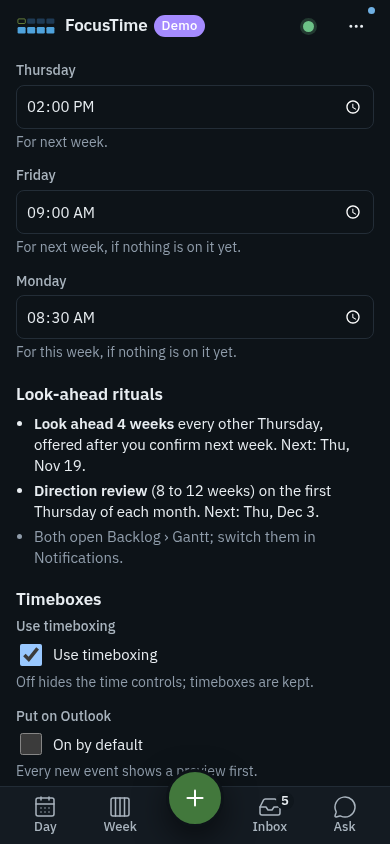
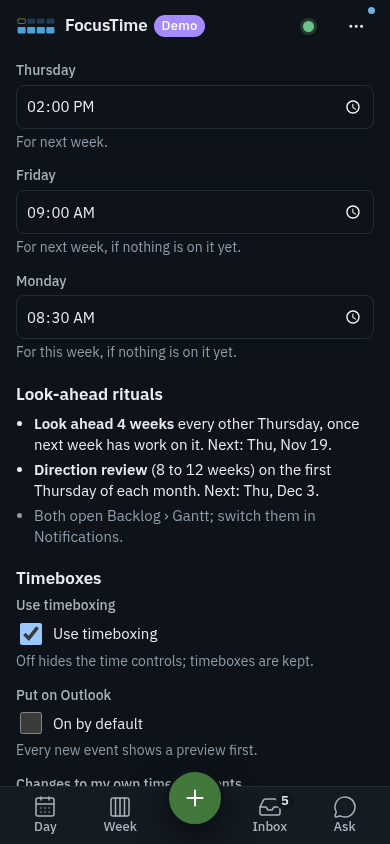
NM-1: review 1 (the demo): six more labels, and the scan reads text after a self-closing tag
Fixed from the review: Show personal events on Week and Day; Look ahead 4 weeks, once next week has work on it;
Add another client in Close out; Logged in Settings › Activity › Teams status log; a person's phrases are in
Settings › Client chats; Week's accessible name says Enter opens the block's panel. The guard's reader took the
slash of a tag's close for the start of a pattern after a brace and skipped the text behind it; it no longer does.
What the review found and this step leaves is in the open questions. The words list, decisions and after
screenshots follow.

Claude-Session: https://claude.ai/code/session_01MZF2GrQ5GJcPQzpEKV4Ldh

Changed region(s): [[0.0308, 0.4929, 0.9231, 0.955], [0.4923, 0.7701, 0.8, 0.8318], [0.0308, 0.5545, 0.0615, 0.5853]]

diff --git a/scripts/words-guard.ts b/scripts/words-guard.ts
@@ -111,7 +111,8 @@ export function codePieces(src: string, tsx: boolean, /** NM-1: also JSX text th
       i += 2;
       continue;
     }
-    if (c === "/" && (prev === "" || /[(,=:[!&|?{};]/.test(prev) || /\b(return|typeof|case)\s*$/.test(cur))) {
+    // NM-1: "/>" closes a tag, it never opens a pattern (the text after `} />` was being skipped to the line's end).
+    if (c === "/" && src[i + 1] !== ">" && (prev === "" || /[(,=:[!&|?{};]/.test(prev) || /\b(return|typeof|case)\s*$/.test(cur))) {
       // a regex literal: skip to its closing slash on this line
       let inClass = false;
       i++;
@@ -149,7 +150,7 @@ export function codePieces(src: string, tsx: boolean, /** NM-1: also JSX text th
       // An entity is read as its character ("Settings &gt; Data"), written wide so it is never taken for a tag.
       if (loose) for (const m of l.replace(/&gt;/g, "＞").replace(/&lt;/g, "＜").replace(/&amp;/g, "＆").replace(/&[a-z]+;|&#\d+;/g, " ").matchAll(/[\w"'}\/]>([^<>{}]*)(?=[<{]|$)/g)) if (/[A-Za-z]{2}/.test(m[1]!) && m[1]!.trim().split(/\s+/).length >= 2 && !/[=;]|=>|\b(const|return|typeof)\b/.test(m[1]!)) push(m[1]!, k + 1, false);
       // NM-1: a line of JSX text with brackets or a colon in it: "On iPhone, add FocusTime to your home screen first (More".
-      if (loose && /^\s*[A-Z][^<>{}=;]*$/.test(l) && l.trim().split(/\s+/).length >= 4 && !/=>|^\s*(return|const|let|if|else|await|export|import|type|case|throw|new|typeof)\b/.test(l)) push(l, k + 1, false);
+      if (loose && /^\s*(?:[A-Z]|\+ [A-Z])[^<>{}=;]*$/.test(l) && l.trim().split(/\s+/).length >= 3 && !/=>|^\s*(return|const|let|if|else|await|export|import|type|case|throw|new|typeof)\b/.test(l)) push(l, k + 1, false);
       // NM-1: text after an {expression} to the end of the line: {name}'s DevOps. Undo is in Settings
       for (const m of l.matchAll(/\}([^<>{}=;()|&:]*)$/g)) if (m[1]!.trim().split(/\s+/).length >= 3 && !/^\s*(as|from|else|satisfies|catch|finally|while)\b/.test(m[1]!)) push(m[1]!, k + 1, false);
       if (/^\s*[A-Za-z][^<>{}=;()|&:]*$/.test(l) && l.trim().split(/\s+/).length >= 3 && !/^\s*(return|const|let|if|else|await|export|import|type|case|throw|new|typeof)\b/.test(l)) push(l, k + 1, false);

diff --git a/ui/Settings.tsx b/ui/Settings.tsx
@@ -479,7 +479,7 @@ function SectionBody(p: BodyProps) {
           <fieldset className="set-choice" data-setting="personal-events">
             <legend>Personal events</legend>
             <label>
-              <input type="checkbox" checked={p.showPersonal} onChange={(e) => p.setShowPersonal(e.target.checked)} /> Show personal events on Week and Today
+              <input type="checkbox" checked={p.showPersonal} onChange={(e) => p.setShowPersonal(e.target.checked)} /> Show personal events on Week and Day
             </label>
             <span className="set-hint">Hidden ones still count in risk and free time. G switches it.</span>
           </fieldset>
@@ -850,7 +850,7 @@ function AheadRituals() {
   return (
     <ul className="set-rituals">
       <li>
-        <strong>Look ahead 4 weeks</strong> every other Thursday, offered after you confirm next week. Next: {day(n.lookAhead)}.
+        <strong>Look ahead 4 weeks</strong> every other Thursday, once next week has work on it. Next: {day(n.lookAhead)}.
       </li>
       <li>
         <strong>Direction review</strong> (8 to 12 weeks) on the first Thursday of each month. Next: {day(n.direction)}.
@@ -994,7 +994,7 @@ function FocusForm(p: FormProps) {
     <>
     <Group title="Teams status" intro="Set while focus runs, back to automatic after. A change you make in Teams wins.">
       <div className="set-grid">
-        <AutoField a={a} k="teamsStatus" label="Set Teams status during focus" hint="Logged in Data › Teams status log.">
+        <AutoField a={a} k="teamsStatus" label="Set Teams status during focus" hint="Logged in Settings › Activity › Teams status log.">
           <label className="set-check">
             <input type="checkbox" checked={v.teamsStatus} onChange={(e) => a.change("teamsStatus", e.target.checked)} /> Set my status while I focus
           </label>

diff --git a/ui/WeekGrid.tsx b/ui/WeekGrid.tsx
@@ -216,7 +216,7 @@ function Grid({ week, colors, minFocusWindow, today, now, selection, cellRefs, o
       <main
         className={`grid narrow${timeline ? "" : " no-timeline"}`}
         role="group"
-        aria-label="Day view. Left and right arrows change the day, up and down pick the half-day, Enter opens details."
+        aria-label="Day view. Left and right arrows change the day, up and down pick the half-day, Enter opens the block's panel."
         // P1: on a touch screen a sideways swipe changes the day.
         onTouchStart={(e) => (swipe.x = e.touches[0]!.clientX, swipe.y = e.touches[0]!.clientY)}
         onTouchEnd={(e) => {
@@ -272,7 +272,7 @@ function Grid({ week, colors, minFocusWindow, today, now, selection, cellRefs, o
         className={`grid ${layout} ${hasEve ? "has-eve" : ""}${panelOpen ? " with-panel" : ""}${layout === "medium" ? ` tier-${fit?.tier ?? "rail"}` : ""}${fit && fit.open.some((o) => !o) ? " folded" : ""}${timeline ? "" : " no-timeline"}`}
         style={{ gridTemplateColumns: tracks, ...(fit ? { "--rail-w": `${fit.railPx}px` } : {}) } as CSSProperties}
         role="group"
-        aria-label="Week grid. Arrow keys move between half-days, Enter opens details."
+        aria-label="Week grid. Arrow keys move between half-days, Enter opens the block's panel."
         data-focus-day={focusAll >= 0 ? week.days[focusAll]!.date : undefined}
       >
         {idx.map((i, k) =>

diff --git a/scripts/words-guard.test.ts b/scripts/words-guard.test.ts
@@ -84,6 +84,10 @@ describe("namesHits", () => {
     // An array over several lines.
     expect(namesHits("ui/menu.ts", '{ label: "Day",\n  aka: [\n    "Today",\n    "Board",\n  ] },\n')).toEqual([]);
   });
+  it("reads the text after a tag that closes itself, and a line that starts with a plus", () => {
+    const src = '<label>\n  <input type="checkbox" checked={on} onChange={(e) => set(e.target.checked)} /> Show personal events on Week and Today\n</label>\n<button type="button" onClick={add}>\n  + Another client\n</button>\n';
+    expect(namesHits("ui/x.tsx", src)).toEqual([{ line: 2, says: ["Today (the tab)"] }, { line: 5, says: ["a control as a character"] }]);
+  });
   it("reads an entity as its character", () => {
     expect(namesHits("ui/x.tsx", '<span className="muted">Logged in Settings &gt; Data, with Undo.</span>\n<p>Undo &amp; Retry are in Settings › Data.</p>\n<p>Undo &amp; Retry are in Settings › Activity.</p>\n').map((h) => h.line)).toEqual([1, 2]);
   });

diff --git a/ui/settings/Admin.tsx b/ui/settings/Admin.tsx
@@ -729,7 +729,7 @@ function AdminConversations() {
   );
   return (
     <div className="set-form">
-      <p className="muted">The team's phrase lists. Each person may add their own phrases on top in Settings › Clients, but never removes the team's.</p>
+      <p className="muted">The team's phrase lists. Each person may add their own phrases on top in Settings › Client chats, but never removes the team's.</p>
       <div className="set-grid">
         {list("conv.request_phrases", "Request phrases", data.requestPhrases, "A client's message with one of these becomes a request. Commas between them.")}
         {list("conv.ack_phrases", "Thanks and short replies", data.ackPhrases, "A message that is only these (and emoji) is never a request.")}

diff --git a/ui/CloseOut.tsx b/ui/CloseOut.tsx
@@ -190,7 +190,7 @@ export function CloseOutPanel({ date, st, data, nameOf, reload, onChanged, onErr
                   openMenu({ x: r.left, y: r.bottom + 4 }, { title: "Another client", items: others.map((c) => ({ id: c.clientKey, label: nameOf(c.clientKey), run: () => setExtra((x) => [...x, c.clientKey]) })) });
                 }}
               >
-                + Another client
+                Add another client
               </button>
             )}
         </section>

diff --git a/docs/ux/nm1/words.md b/docs/ux/nm1/words.md
@@ -2,9 +2,9 @@
 
 STEP 0.3's list: every string a person can read that used a name on the retired list (`ui/guide/retired.ts`) or wrote a control as a character, with what it became. Comments in code are not on it.
 
-How it was built. The new guard (`scripts/words-guard.ts`, `namesHits`) was written first and run on `main`: it reads every string, template part and run of JSX text in the app's code (`ui/`, `server/`, `assistant/`, `actions/`, `plan/`, `config/`, `week/`, `ai/`, `host/`, `store/`, the Teams scripts) and the public pages, and reported 121 lines. A second pass by hand added what a pattern can't see: old names in lower case ("captures and drafts", "the whole roadmap", "urgent asks"), paths written with ">" ("Settings > Data"), and pointers to a Settings section that has since moved (a write PAT is entered in Settings › DevOps, not Settings › Clients). Widening the scan to JSX text with brackets found two more lines later (the key list's footer and the iPhone note in Settings).
+How it was built. The new guard (`scripts/words-guard.ts`, `namesHits`) was written first and run on `main`: it reads every string, template part and run of JSX text in the app's code (`ui/`, `server/`, `assistant/`, `actions/`, `plan/`, `config/`, `week/`, `ai/`, `host/`, `store/`, the Teams scripts) and the public pages, and reported 121 lines. A second pass by hand added what a pattern can't see: old names in lower case ("captures and drafts", "the whole roadmap", "urgent asks"), paths written with ">" ("Settings > Data"), and pointers to a Settings section that has since moved (a write PAT is entered in Settings › DevOps, not Settings › Clients). Widening the scan found more later: JSX text with brackets (the key list's footer, the iPhone note in Settings), and after the two reviews the sources' own messages, text written with an entity ("Settings &gt; Data") and text after a tag that closes itself ("Show personal events on Week and Today"). The reviews also found lines no pattern would: "offered after you confirm next week", "Logged in Data › Teams status log", "Enter opens details".
 
-148 rows. "Words now" is `main` before this step; "Words proposed" is what the branch says. A row from `actions/registry.ts` shows the command's title or group (what the command menu shows) and its summary (not shown, kept in step).
+164 rows. "Words now" is `main` before this step; "Words proposed" is what the branch says. A row from `actions/registry.ts` shows the command's title or group (what the command menu shows) and its summary (not shown, kept in step).
 
 | File and line (on main) | Words now | Words proposed |
 |---|---|---|
@@ -17,6 +17,7 @@ How it was built. The new guard (`scripts/words-guard.ts`, `namesHits`) was writ
 | `actions/devops-write-actions.ts:157` | may already be in DevOps. Retry it in Settings > Data > Audit log: it checks first and won't make a second one | may already be in DevOps. Retry it in Settings › Activity: it checks first and won't make a second one |
 | `actions/devops-write-actions.ts:216` | DevOps writes aren't enabled for ${client}. Enter your own DevOps PAT in Settings > Clients > DevOps write access | DevOps writes aren't enabled for ${client}. Enter your own DevOps PAT in Settings › DevOps › Write access |
 | `actions/devops-write-actions.ts:265` | ${clientName(clientKey)}'s DevOps organization changed. Enter the write PAT again in Settings > Clients | ${clientName(clientKey)}'s DevOps organization changed. Enter the write PAT again in Settings › DevOps |
+| `actions/devops-write-actions.ts:266` | Your DevOps identity for ${clientName(clientKey)} in Dataverse no longer matches the write PAT (${me.email}). Enter it again in Settings > Clients | Your DevOps identity for ${clientName(clientKey)} in Dataverse no longer matches the write PAT (${me.email}). Enter it again in Settings › DevOps |
 | `actions/devops-write-actions.ts:625` | Feedback isn't sent again from here. Send it again from ⋯ › Send feedback | Feedback isn't sent again from here. Send it again from More › Send feedback |
 | `actions/devops-write-actions.ts:654` | The request opens again in Inbox › Requests, for everyone on the chat. | The request opens again in Inbox › From chats, for everyone on the chat. |
 | `actions/devops-write-actions.ts:1121` | may already be in DevOps. Retry it in Settings > Data > Audit log | may already be in DevOps. Retry it in Settings › Activity |
@@ -30,6 +31,7 @@ How it was built. The new guard (`scripts/words-guard.ts`, `namesHits`) was writ
 | `actions/meeting-actions.ts:453` | Enable DevOps writes for this client in Settings › Clients first | Enable DevOps writes for this client in Settings › DevOps first |
 | `actions/meeting-actions.ts:472` | Saved as your draft: put it under a feature or epic in Inbox › Captures and drafts, then create it | Saved as your draft: put it under a feature or epic in Inbox › Captures, then create it |
 | `actions/meeting-actions.ts:487` | In your Waiting on | Noted with this call |
+| `actions/meeting-actions.ts:540` | Waiting on ${b.who} | Noted with this call: ${b.who} |
 | `actions/registry.ts:40` | Requests | From chats |
 | `actions/registry.ts:87` | , title: "Plan ahead | , aka: ["Plan ahead"], title: "Backlog › Gantt: the next 12 weeks |
 | `actions/registry.ts:194` | Whether a person's first Today offers the 2-minute tour; { done: true } once they open it or say Not now; kept per person in the plan store | Whether a person's first Day offers the 2-minute tour; { done: true } once they open it or say Not now; kept per person in the plan store |
@@ -82,6 +84,12 @@ How it was built. The new guard (`scripts/words-guard.ts`, `namesHits`) was writ
 | `public/legal.html:34` | Settings › Data › Export my data gives you everything kept for you as a file. Delete my data signs you out and removes it: the Teams bot's records at once, everything else 30 days later. Settings › Data › Assistant history › Clear… | Settings › Your data › Export my data gives you everything kept for you as a file. Delete my data signs you out and removes it: the Teams bot's records at once, everything else 30 days later. Settings › AI and assistant › Assistan… |
 | `scripts/teams-card-previews.ts:83` | Open in Ahead | Open in Backlog |
 | `server/teams/rhythm-cards.ts:123` | } in Today | } on Day |
+| `sources/devops/source.ts:1193` | Ahead reads the shared DevOps store, which isn't running here | Backlog reads the shared DevOps store, which isn't running here |
+| `sources/devops/write.ts:45` | The DevOps write PAT is expired or invalid. Enter a new one in Settings > Clients | The DevOps write PAT is expired or invalid. Enter a new one in Settings › DevOps |
+| `sources/devops/write.ts:54` | The DevOps write PAT is expired or invalid. Enter a new one in Settings > Clients | The DevOps write PAT is expired or invalid. Enter a new one in Settings › DevOps |
+| `sources/not-set-up.ts:8` | ${NAMES[source]} isn't set up yet. Set it up in Settings > Connections | ${NAMES[source]} isn't set up yet. Set it up in Settings › Accounts and calendars |
+| `sources/oauth/oauth.ts:269` | FocusTime can't change your ${p.label} calendar yet. Reconnect ${p.label} in Settings > Connections and allow calendar changes | FocusTime can't change your ${p.label} calendar yet. Reconnect ${p.label} in Settings › Accounts and calendars and allow calendar changes |
+| `sources/oauth/oauth.ts:276` | FocusTime can't change your ${p.label} calendar yet. Reconnect ${p.label} in Settings > Connections and allow calendar changes | FocusTime can't change your ${p.label} calendar yet. Reconnect ${p.label} in Settings › Accounts and calendars and allow calendar changes |
 | `ui/App.tsx:153` | The week's blocks, with Add work beside them | Week: the week's blocks, with a block's panel beside them |
 | `ui/App.tsx:154` | Features, epics and stories ahead: Grid, Gantt, Readiness and Backlog | Backlog: every client's DevOps on one screen: Grid, Gantt and Needs attention |
 | `ui/App.tsx:155` | What needs you: promises, conversations, sends, captures and drafts | Inbox: From chats, Promises and Captures |
@@ -90,6 +98,7 @@ How it was built. The new guard (`scripts/words-guard.ts`, `namesHits`) was writ
 | `ui/App.tsx:2316` | Shows them until you leave Week; the setting is in Week's ⋯ | Shows them until you leave Week; the setting is under Week's View options |
 | `ui/BlockPanel.tsx:261` | Timeboxing is off in Settings › Planning | Timeboxing is off in Settings › Day and Week |
 | `ui/Checkin.tsx:114` | Requests still open after their urgency (now: 2 hours; this week: Friday) | Urgent requests still open after their urgency (now: 2 hours; this week: Friday) |
+| `ui/CloseOut.tsx:193` | + Another client | Add another client |
 | `ui/CloseOut.tsx:259` | Back to Today (Esc)" : "Close out this day, then back to Today | Back to Day (Esc)" : "Close out this day, then back to Day |
 | `ui/DevOpsWrite.tsx:432` | DevOps is read-only for this client until you add your own write PAT in Settings > Clients | DevOps is read-only for this client until you add your own write PAT in Settings › DevOps |
 | `ui/DoneOffer.tsx:336` | }Undo is in Settings › Data. | }Undo is in Settings › Activity. |
@@ -100,6 +109,7 @@ How it was built. The new guard (`scripts/words-guard.ts`, `namesHits`) was writ
 | `ui/NewItem.tsx:194` | Kept on the block as a draft. Create it in DevOps from its ⋯, or drop it | Kept on the block as a draft. Create it in DevOps from its More menu, or drop it |
 | `ui/PhoneShell.tsx:181` | Grid, Gantt, Gaps and Backlog need room for the whole roadmap. Open FocusTime on a computer to plan ahead. | Grid, Gantt and Needs attention need room for the whole backlog. Open FocusTime on a computer to plan ahead. |
 | `ui/PhoneShell.tsx:187` | Back to Today | Back to Day |
+| `ui/Settings.tsx:482` | Show personal events on Week and Today | Show personal events on Week and Day |
 | `ui/Settings.tsx:494` | With Show weekend on, weekend days show when something is on them (or always, with Every weekend day in Week's ⋯). A hidden day with to-dos or promises due, or today, gets a note on Week with Show. Day still steps through every da… | With Show weekend on, weekend days show when something is on them (or always, with Every weekend day under Week's View options). A hidden day with to-dos or promises due, or today, gets a note on Week with Show. Day still steps th… |
 | `ui/Settings.tsx:600` | None. Set a day's own hours from its ⋯ menu in the week. | None. Set a day's own hours from its Actions menu on Week. |
 | `ui/Settings.tsx:729` | Today's and your next working day's empty blocks offer to-dos: unfinished ones first, then your backlog. Nothing is planned until you keep it. Also in Week's and Day's ⋯ as Suggestions. | Today's and your next working day's empty blocks offer to-dos: unfinished ones first, then your backlog. Nothing is planned until you keep it. Also under Week's and Day's View options as Suggestions. |
@@ -107,13 +117,17 @@ How it was built. The new guard (`scripts/words-guard.ts`, `namesHits`) was writ
 | `ui/Settings.tsx:813` | Readiness nudges | Needs attention nudges |
 | `ui/Settings.tsx:835` | Readiness nudges" hint={<>The ⚑ flags in Plan ahead. Team default: {onOff(team.readinessNudges)}. {reset( | Needs attention nudges" hint={<>The ⚑ flags in Backlog's Gantt. Team default: {onOff(team.readinessNudges)}. {reset( |
 | `ui/Settings.tsx:837` | Show readiness nudges | Show Needs attention nudges |
+| `ui/Settings.tsx:853` | every other Thursday, offered after you confirm next week. Next: {day(n.lookAhead)}. | every other Thursday, once next week has work on it. Next: {day(n.lookAhead)}. |
 | `ui/Settings.tsx:858` | Both open Plan ahead; switch them in Notifications. | Both open Backlog › Gantt; switch them in Notifications. |
+| `ui/Settings.tsx:997` | Logged in Data › Teams status log. | Logged in Settings › Activity › Teams status log. |
 | `ui/Settings.tsx:1213` | Let urgent asks through | Let urgent requests through |
 | `ui/Settings.tsx:1379` | On iPhone, add FocusTime to your home screen first (⋯ › Install app), then open it from there to turn this on. | On iPhone, add FocusTime to your home screen first (More › Install app), then open it from there to turn this on. |
 | `ui/Status.tsx:1092` | Each line is its own write, logged in Settings &gt; Data with Undo. | Each line is its own write, logged in Settings › Activity with Undo. |
 | `ui/StyleGuide.tsx:274` | Today and Week: four sizes and three weights. Uppercase only for section labels. | Day and Week: four sizes and three weights. Uppercase only for section labels. |
 | `ui/TimeboxCheckin.tsx:287` | Undo is also in Settings › Data. | Undo is also in Settings › Activity. |
 | `ui/Timeboxes.tsx:289` | Logged in Settings > Data. No undo: a first response can't be taken back." : "Logged in Settings > Data, with Undo. | Logged in Settings › Activity. No undo: a first response can't be taken back." : "Logged in Settings › Activity, with Undo. |
+| `ui/Timeboxes.tsx:375` | } The others are done. Try again, or use Retry in Settings &gt; Data. | } The others are done. Try again, or use Retry in Settings › Activity. |
+| `ui/Timeboxes.tsx:383` | Each one is logged in Settings &gt; Data, with its own Undo. | Each one is logged in Settings › Activity, with its own Undo. |
 | `ui/WrapUp.tsx:439` | )}, in {offer.clientName}'s DevOps ({preview.previews[0]!.visibility}). Each only if the item hasn't changed since. Undo is in Settings › Data. | )}, in {offer.clientName}'s DevOps ({preview.previews[0]!.visibility}). Each only if the item hasn't changed since. Undo is in Settings › Activity. |
 | `ui/keys.ts:103` | Move between blocks on Week and on Day (↓ from the afternoon reaches the evening); with the block panel open it follows | Move between blocks on Week and on Day (↓ from the afternoon reaches the evening); with the block's panel open it follows |
 | `ui/keys.ts:105` | Close the block panel and go back to its block | Close the block's panel and go back to its block |
@@ -137,12 +151,14 @@ How it was built. The new guard (`scripts/words-guard.ts`, `namesHits`) was writ
 | `ui/meetings/Meetings.tsx:224` | in your Waiting on | noted with this call |
 | `ui/meetings/Meetings.tsx:226` | Added to your Waiting on | Noted with this call |
 | `ui/meetings/Meetings.tsx:294` | Promises and Waiting on | Promises |
+| `ui/menu-icons.ts:52` | , Requests: | , "From chats": |
 | `ui/menu.ts:774` | Cancel it from Settings > Data (Undo) | Cancel it from Settings › Activity (Undo) |
 | `ui/menu.ts:1165` | Breaks are set to 0 minutes in Settings > Planning | Breaks are set to 0 minutes in Settings › Focus |
 | `ui/menu.ts:1422` | Shown next to Cooptimizers in Ask to collaborate, Who and Roadmap | Shown next to Cooptimizers in Ask to collaborate, Who and Backlog |
 | `ui/settings/Admin.tsx:447` | ${c.key}: what Gaps counts | ${c.key}: what Needs attention counts |
 | `ui/settings/Admin.tsx:450` | What Gaps counts | What Needs attention counts |
 | `ui/settings/Admin.tsx:451` | ${c.key}: what Gaps counts | ${c.key}: what Needs attention counts |
+| `ui/settings/Admin.tsx:732` | The team's phrase lists. Each person may add their own phrases on top in Settings › Clients, but never removes the team's. | The team's phrase lists. Each person may add their own phrases on top in Settings › Client chats, but never removes the team's. |
 | `ui/settings/Admin.tsx:1264` | Readiness top N | Needs attention top N |
 | `ui/settings/Admin.tsx:1265` | Readiness top N | Needs attention top N |
 | `ui/settings/Admin.tsx:1305` | Each level's defaults; a person may change any of these for themselves (Settings › Planning, Reset to team default). They never block anything. | Each level's defaults; a person may change any of these for themselves (Settings › Day and Week, Reset to team default). They never block anything. |
@@ -170,7 +186,7 @@ Also changed with these: the Guide's sentences that quoted "Settings › Today a
 | Where | Words | Why |
 |---|---|---|
 | `ui/Day.tsx` | "Needs you", the phone's heading over Day's urgent lines | Plain words for what the lines are, not the Inbox's old view. On the allow list with that reason. |
-| `plan/conversations.ts`, `actions/meeting-actions.ts` | "Waiting on <Name> · 1 day", "Waiting on <Name>" | A sentence about a person, not the old view. |
+| `plan/conversations.ts` | "Waiting on <Name> · 1 day" | A sentence about a person, not the old view. |
 | "Loop closed", "Loop updates sent" | Results of Close the loop | Close the loop is the action's name today. |
 | "Today" alone, "Today's …", "Today is …", "Today 4:07 PM" | The pill, the button, the quick date, stamps | The day that is today. |
 | `ui/patterns/`, `plan/patterns/`, `actions/patterns.ts` | "Request types", "Readiness as written" | DevOps patterns' own words (a page only some people have). Not the retired work-template field or the old Backlog view. |

diff --git a/docs/decisions.md b/docs/decisions.md
@@ -2641,7 +2641,7 @@ Unnumbered until merge.
 | # | Status | Decision |
 |---|---|---|
 | - | Done | Words only. No file, action, address, setting key, stored value, table or code name is renamed; the names table in `docs/technical/README.md` already says which code name means which screen. No key, order or layout changes. Two things this step was given move: the Guide's Backlog section goes to `#/guide/backlog` (the old address still opens it; this answers GU-1's open question and replaces its row that kept the id `ahead`), and the now mark leaves a cell that isn't a block (below). |
-| - | Done | Every string a person reads that used a name on the Renamed list (`ui/guide/retired.ts`) or wrote a control as a character now uses the screen's name today and the control's name: 148 lines, listed with before and after in `docs/ux/nm1/words.md`. The fixed words: "Day and Week" (the Settings section), "Needs attention nudges", "Needs attention looks at the top N of each backlog", "What Needs attention counts", "Back to Day". Controls: More, View options, Actions, Previous, Next, Add, Close. |
+| - | Done | Every string a person reads that used a name on the Renamed list (`ui/guide/retired.ts`) or wrote a control as a character now uses the screen's name today and the control's name: 164 lines, listed with before and after in `docs/ux/nm1/words.md`. The fixed words: "Day and Week" (the Settings section), "Needs attention nudges", "Needs attention looks at the top N of each backlog", "What Needs attention counts", "Back to Day". Controls: More, View options, Actions, Previous, Next, Add, Close. |
 | - | Done | The key list (`ui/keys.ts`, shown in Keyboard shortcuts and as the Guide's "Every key"): the Inbox row names the three lists (From chats, Promises, Captures); every row names a button by its name; "a block's panel" throughout. |
 | - | Done | Tab tooltips, one short line each, starting with the tab's name: Day, Week, Backlog (Grid, Gantt and Needs attention), Status, Inbox (From chats, Promises and Captures). |
 | - | Done | A line that points at a Settings section names the section it is in today: Settings › Activity for Undo, Retry and what was logged (was "Settings > Data", "Settings > Data > Audit log"), Settings › Your data for Export and Delete, Settings › Accounts and calendars (was Connections), Settings › DevOps for a write PAT (was Settings > Clients), Settings › Focus for break length and Settings › Day and Week for timeboxing (both were Planning). `public/legal.html` follows. |
@@ -2658,5 +2658,7 @@ Unnumbered until merge.
 | - | Done | Removed after proof: five style selectors that match no element (`.dp-calls .lc-start` and its neighbors). |
 | - | Done | A cell that isn't a block gets no now mark. A day drawn as one cell (a catch-up day with no working hours, a PTO day, a holiday) has no block under way, so `nowSpot` answers none for it at any hour; before, a thin line ran across the cell, over the Catch-up title. One answer feeds Week, Day and the phone. NL-1's rule is unchanged: a block under way still has its mark. |
 | - | Done | Tests updated only where they read a changed label or called a removed part: `plan/caltier`, `actions/timebox-actions`, `ui/plan-words`, `plan/notify`, `e2e/settings-autosave`, `e2e/settings-shell`, `e2e/guide`, `ui/guide/sections`, `ui/guide/guide` (labels); `config/background-policy`, `actions/request-poll`, `actions/conversation-actions` (the job); `plan/nowline` (the whole-day cell). New: the guard's tests, Settings' search and the command menu by old and new names, the kinds list against what can be sent, a saved choice for a removed kind, the policy against what runs, `e2e/nm1-now-mark.test.ts`. |
+| - | Done | Review 1 (a fresh reviewer with only the demo, knowing only today's names: every tab, More, the command menu, Keyboard shortcuts, every Settings and Admin section, the Guide's Every key, the phone, tooltips and accessible names). It found no control written as ⋯ ‹ › or × anywhere and no retired name outside Renamed and Settings' "was" notes, apart from these, fixed: "Show personal events on Week and Today", "offered after you confirm next week", "+ Another client" in Close out, "Logged in Data › Teams status log", "in Settings › Clients" for a person's phrases (they are in Client chats), "Enter opens details" in Week's accessible name. Left, in the open questions: the command menu's Conversations, request and loop-update commands and its Team group, "Delivery chats", "request" as a thing in Client chats and Admin, the arrows on the phone's day bar, the ⚑ in a hint, three pointers it could not place, and two things that looked off in drawing. |
+| - | Done | Review 2 (a fresh reviewer with the diff, looking only for breakage). Nothing broke: no action, key, setting key or stored value changed, the removed kinds and job have no user left, a saved choice for a removed kind loads, the policy matches what runs, the package change is consistent. Fixed from it: seven more lines pointing at Settings > Data, Connections or Clients (two written with an entity, the rest in `sources/`, which the guard did not read), the guard's gaps (entities, `sources/`, a label on the same line as its `aka`, two allowances wider than their reason, a sentence with a size in it taken for code), the command menu's icon for the renamed group, a client-side commitment's result line, the runbook's "runs no upkeep", and two tests that had stopped checking anything. It flagged the Guide's Backlog address as a move: it is the one this step was given, now said in the first row. |
 | - | Done | Docs: `docs/design/wording.md` (NM-1 words), CLAUDE.md's glossary rows that quoted "Settings › Today and Week" and its Renamed list, `docs/technical/` (the reminders list, the jobs tables, the dependency list; each page's "Checked against" line is left as it was, since the whole page was not re-checked), `docs/settings.md`. |
 

diff --git a/docs/open-questions.md b/docs/open-questions.md
@@ -989,4 +989,14 @@ From the IT review (TD-1):
   - The action registry's summaries are shown nowhere (the command menu shows titles); they were brought up to date with the titles anyway.
 - The config file's comments written beside a setting (`"Display (U5.1): show personal events on Week and Day."`) now use today's names; an existing file keeps the comment it has.
 - `docs/architecture.md` still describes the upkeep job and the removed kinds in its history of CV-1 and IB-1; TD-1 left that file alone and so does this step.
+- From review 1 (someone who knows only today's names, with only the demo), seen and left:
+  - "Team" as a place: a tooltip on Ask a lead to look ("Sends a link to your planned Harbor features in Team"), Admin › People ("leads, Team and notes"), and a command menu group "Team". Team is hidden for now (WD-1). Should these words go while it is?
+  - "request" as a thing: Settings › Client chats ("My request phrases", "Client chats read for requests", "becomes a request when"), Admin › Conversations ("Request phrases", "Keep messages that aren't requests"), Admin › AI ("Sorting requests"), Admin › Status. The Inbox shows no requests; the phrases still drive what is picked out as urgent. What should they be called?
+  - The command menu's "loop update" commands (Draft a loop update, Send the loop update shown, Loop updates sent) beside "Close the loop".
+  - Admin › Conversations: "Closed conversations stay shown (days)" with the hint "In Inbox › Conversations › Closed, then they're no longer listed." The Inbox has no Closed list. Does the rule still do anything a person sees?
+  - The command menu: "Backlog › stories in each client's rank order" (a filter, written as a view) and "Settings · Coming soon" although Settings exists.
+  - The phone's Week accessible name starts "Day view" (it shows one day at a time). The phone's day bar draws ← and → as the buttons' text (their names are Previous day and Next day). A hint says "The ⚑ flags in Backlog's Gantt". Backlog's status column shows "+1" for a second reason, and the Focus screen's button is "+15": counts and an amount, left alone.
+  - Pointers it could not place: Chat.Read's "Settings > Clients: Add a chat to allow it" (above); the Guide's Day section says the focus screen has "Done, +15 and Stop" where a plain timer shows Finish, +15 and Stop (a timer on a to-do was not checked).
+  - Drawing: on Day with a block's panel open, the source status row opened from the dot at the bottom left is covered at its right end by the panel ("DevOps 4 of 4" cut off). On Day's Timeline the "1h 45m free" pill sits on the 10 AM hour line.
+  - Settings' search shows the old name after "was" on each result found by one, as it did before.
 
